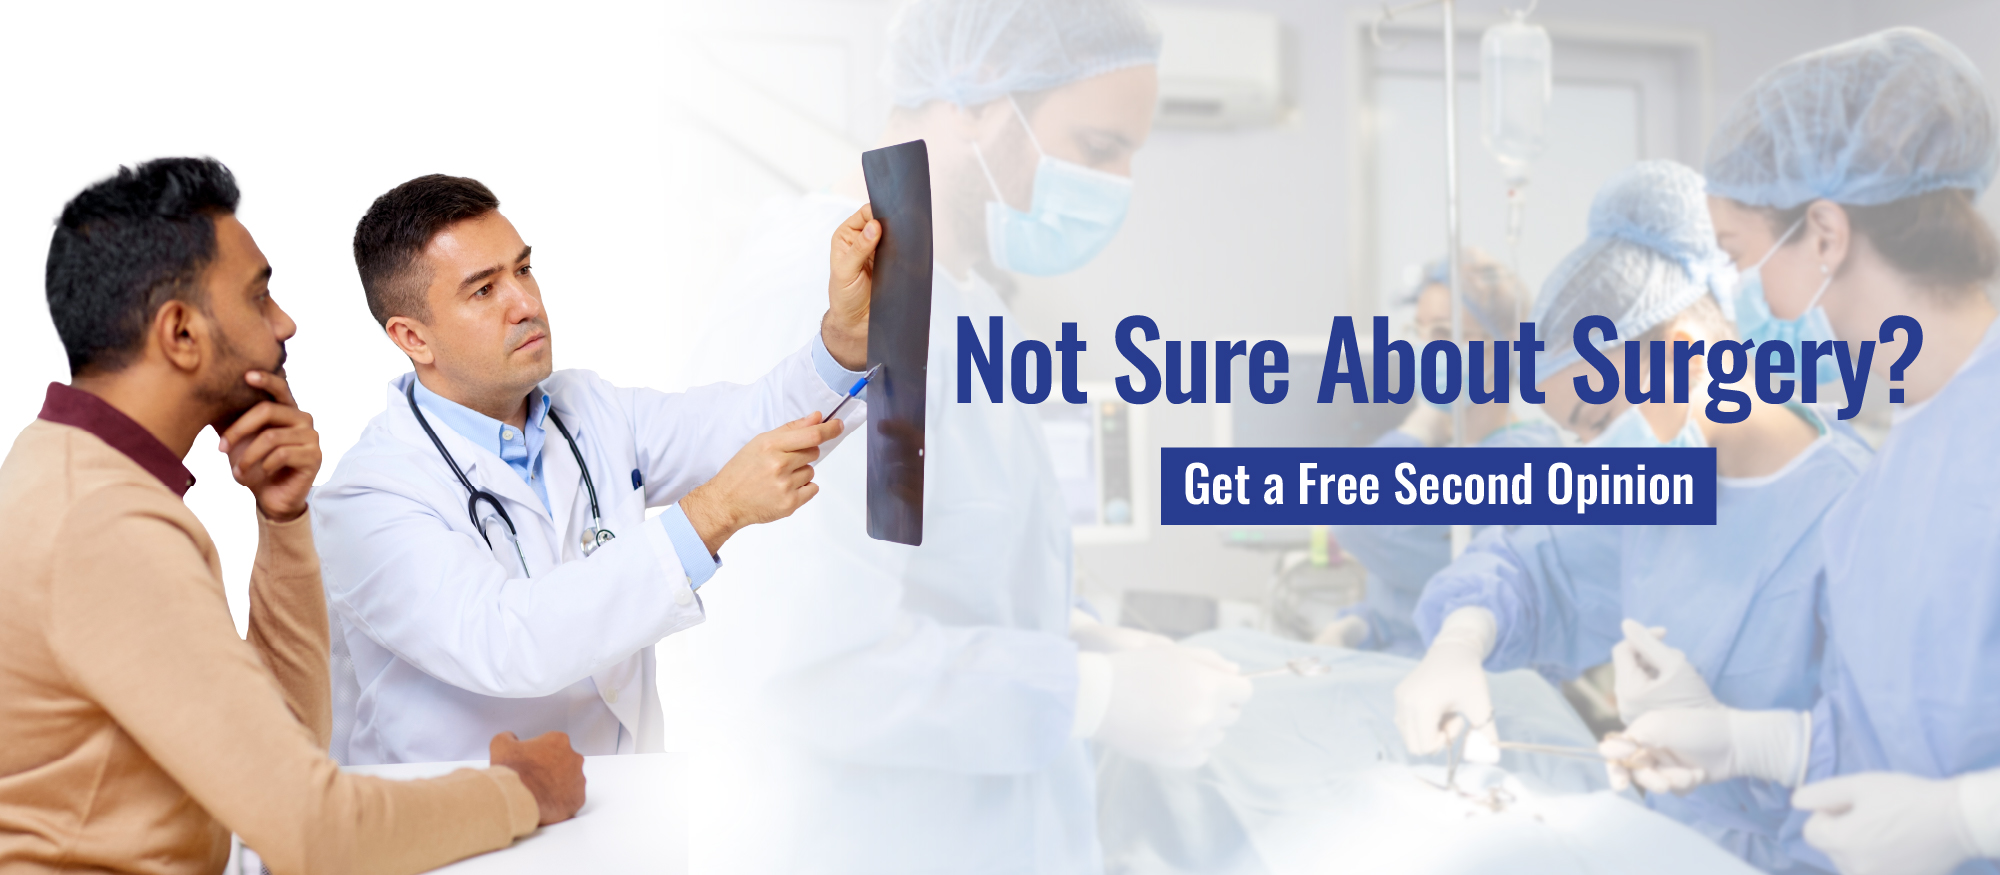
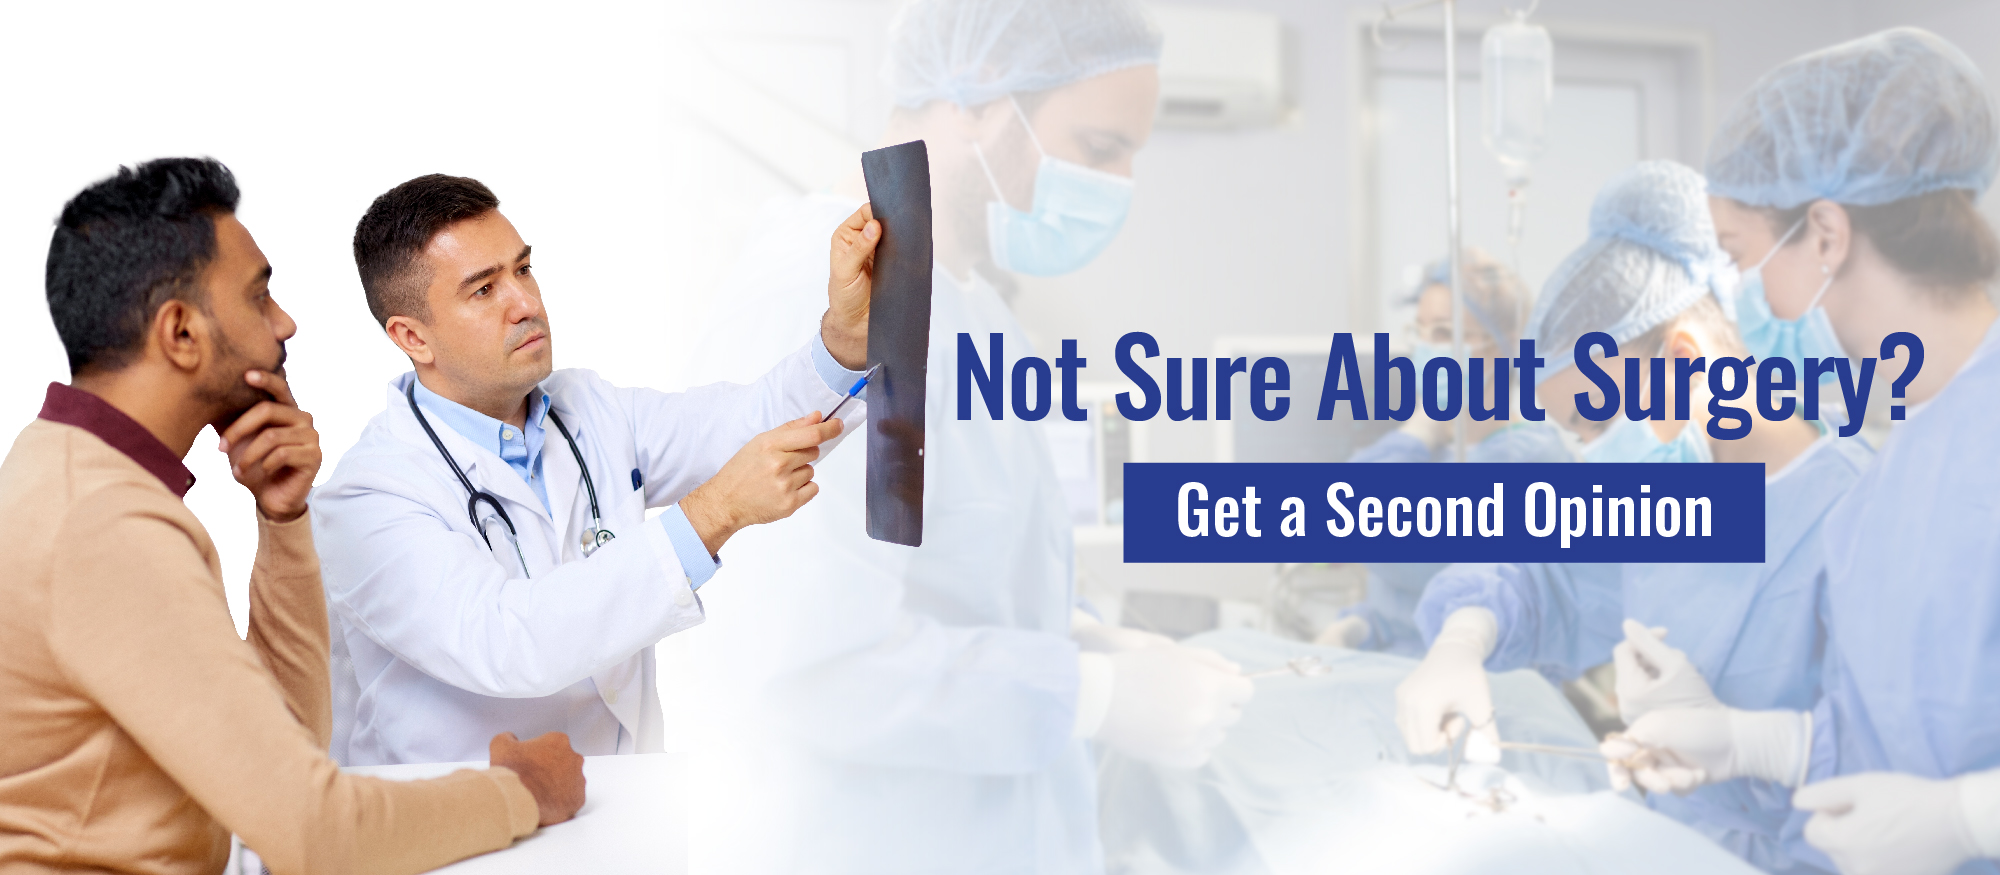
new changes

Changed region(s): [[0.465, 0.3394, 0.961, 0.648], [0.217, 0.5554, 0.248, 0.5863]]

diff --git a/src/app/about-us/about-us.component.ts b/src/app/about-us/about-us.component.ts
@@ -15,24 +15,48 @@ export class AboutUsComponent implements OnInit {
   constructor(
     private titleService: Title,
     private metaService: Meta,
-    private canonicalService: CanonicalService
+    private canonicalService: CanonicalService,
+    private router: Router,
+    private route: ActivatedRoute
   ) {}
 
   ngOnInit(): void {
+    // Check the current route to determine which view to show
+    const currentUrl = this.router.url;
+    if (currentUrl.includes('/leadership-team')) {
+      this.selected_team = 2;
+    } else {
+      this.selected_team = 1;
+    }
     this.setSEOTags();
   }
 
   private setSEOTags(): void {
-    this.titleService.setTitle('About Us - OMNI Hospitals | Leading Healthcare Provider in Hyderabad');
-    this.metaService.updateTag({ 
-      name: 'description', 
-      content: 'Learn about OMNI Hospitals - our mission, vision, and commitment to providing world-class healthcare services across multiple locations in Andhra Pradesh and Telangana.' 
-    });
-    this.metaService.updateTag({ 
-      name: 'keywords', 
-      content: 'about OMNI hospitals, healthcare provider Hyderabad, hospital mission vision, medical excellence, Andhra Pradesh Telangana healthcare' 
-    });
-    this.canonicalService.setCanonicalUrl('/about-us');
+    if (this.selected_team === 2) {
+      // SEO tags for Leadership Team page
+      this.titleService.setTitle('Leadership Team - OMNI Hospitals | Executive Management');
+      this.metaService.updateTag({ 
+        name: 'description', 
+        content: 'Meet the leadership team at OMNI Hospitals - our Group CEO, Chief Growth Officer, and Chief Financial Officer driving healthcare excellence.' 
+      });
+      this.metaService.updateTag({ 
+        name: 'keywords', 
+        content: 'OMNI hospitals leadership, healthcare executives, hospital management team, Group CEO, CFO, CGO' 
+      });
+      this.canonicalService.setCanonicalUrl('/about-us/leadership-team');
+    } else {
+      // SEO tags for main About Us page
+      this.titleService.setTitle('About Us - OMNI Hospitals | Leading Healthcare Provider in Hyderabad');
+      this.metaService.updateTag({ 
+        name: 'description', 
+        content: 'Learn about OMNI Hospitals - our mission, vision, and commitment to providing world-class healthcare services across multiple locations in Andhra Pradesh and Telangana.' 
+      });
+      this.metaService.updateTag({ 
+        name: 'keywords', 
+        content: 'about OMNI hospitals, healthcare provider Hyderabad, hospital mission vision, medical excellence, Andhra Pradesh Telangana healthcare' 
+      });
+      this.canonicalService.setCanonicalUrl('/about-us');
+    }
   }
 
   selectedIndex: number = 0;
@@ -116,12 +140,21 @@ export class AboutUsComponent implements OnInit {
   }
 
   selectedTeam(index: number) {
-    this.selected_team = index
+    this.selected_team = index;
+    if (index === 2) {
+      // Navigate to leadership-team URL
+      this.router.navigate(['/about-us/leadership-team']);
+    } else {
+      // Navigate to main about-us page
+      this.router.navigate(['/about-us']);
+    }
     window.scrollTo({ top: 0, behavior: 'smooth' });
   }
 
   resetSelectedTeam() {
-    this.selected_team = 1
+    this.selected_team = 1;
+    // Navigate back to main about-us page
+    this.router.navigate(['/about-us']);
     window.scrollTo({ top: 0, behavior: 'smooth' });
   }
 }

diff --git a/src/app/home/home.component.html b/src/app/home/home.component.html
@@ -2,16 +2,16 @@
 <header class="container-fluid p-0 position-relative bg-white">
   <div class="owl-carousel banner-slider owl-theme position-relative m-0" style="margin: 0px !important;">
     <div class="banner-item position-relative">
-      <img src="assets/images/Not Sure About Surgery-01.jpg" class="w-100 d-none d-md-block" alt="Banner 1">
+      <img src="assets/images/not_sure_about_surgery.jpg" class="w-100 d-none d-md-block" alt="Banner 1">
             <img src="assets/images/not_sure_about_surgery_mobile.jpg" class="d-block d-md-none" alt="Banner 1">
     </div>
     <div class="banner-item position-relative">
-      <img src="assets/images/ambulance_banner_white.jpg" class=" img-fluid d-none d-md-block" alt="Banner 2">
-            <img src="assets/images/ambulance_banner_white_mobile.jpg" class="d-block d-md-none" alt="Banner 2">
+      <img src="assets/images/TKR_Website_banner.jpg" class=" img-fluid d-none d-md-block" alt="Banner 2">
+            <img src="assets/images/TKR_Website_banner_mobile.jpg" class="d-block d-md-none" alt="Banner 2">
     </div>
     <div class="banner-item position-relative">
-      <img src="assets/images/best_multispeciality.jpg" class="img-fluid d-none d-md-block" alt="Banner Desktop" />
-      <img src="assets/images/best_multispeciality_mobile.jpg" class="d-block d-md-none"
+      <img src="assets/images/free_bmd_camp.jpeg" class="img-fluid d-none d-md-block" alt="Banner Desktop" />
+      <img src="assets/images/free_bmd_camp_mobile.jpeg" class="d-block d-md-none"
         alt="Banner Mobile" />
     </div>
 

diff --git a/src/app/our-doctors/our-doctors.component.ts b/src/app/our-doctors/our-doctors.component.ts
@@ -51,13 +51,22 @@ export class OurDoctorsComponent implements OnInit, AfterViewInit, OnDestroy {
     this.route.queryParams.subscribe(params => {
       this.isRestoringFromUrl = true;
       
-      if (params['location']) {
+      // Reset filters if no params present
+      if (!params['location']) {
+        this.selectedLocation = '';
+      } else {
         this.selectedLocation = params['location'];
       }
-      if (params['speciality']) {
+      
+      if (!params['speciality']) {
+        this.selectedSpeciality = '';
+      } else {
         this.selectedSpeciality = params['speciality'];
       }
-      if (params['search']) {
+      
+      if (!params['search']) {
+        this.searchTerm = '';
+      } else {
         this.searchTerm = params['search'];
       }
       
@@ -65,6 +74,9 @@ export class OurDoctorsComponent implements OnInit, AfterViewInit, OnDestroy {
       if (this.allDoctorsFlat.length > 0) {
         this.runFilters();
       }
+      
+      // Mark for check to ensure UI updates with new filter values
+      this.cdr.markForCheck();
       
       this.isRestoringFromUrl = false;
     });
@@ -304,10 +316,11 @@ export class OurDoctorsComponent implements OnInit, AfterViewInit, OnDestroy {
       queryParams.search = this.searchTerm;
     }
     
+    // Use replaceUrl to avoid creating multiple history entries for each filter change
     this.router.navigate([], {
       relativeTo: this.route,
       queryParams: queryParams,
-      queryParamsHandling: 'merge'
+      replaceUrl: true
     });
   }
 

diff --git a/src/app/common-pages.module.ts b/src/app/common-pages.module.ts
@@ -39,6 +39,7 @@ const routes: Routes = [
   { path: '', redirectTo: 'home', pathMatch: 'full' },
   { path: 'home', component: HomeComponent },
   { path: 'get-a-second-opinion', component: SecondOpinionComponent },
+  { path: 'about-us/leadership-team', component: AboutUsComponent },
   { path: 'about-us', component: AboutUsComponent },
   { path: 'health-checkup', component: HealthCheckupComponent },
   { path: 'package-details', component: PackageDetailsComponent },
